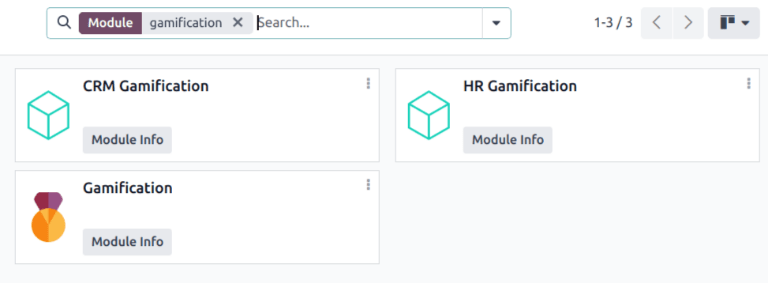
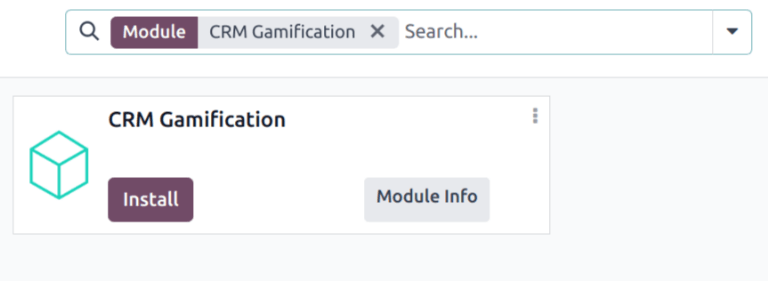
[IMP] CRM: rewrite gamification config section
X-original-commit: fd17dcef909d5c4ee27f419f02dad8ef3695af08

diff --git a/content/applications/sales/crm/optimize/gamification.rst b/content/applications/sales/crm/optimize/gamification.rst
@@ -9,13 +9,9 @@ through customizable challenges, goals, and rewards. Goals are created to target
 Configuration
 =============
 
-To install the *Gamification* module, navigate to the :menuselection:`Apps` application. Click into
-the :guilabel:`Search...` bar at the top of the page and remove the :guilabel:`Apps` filter. Type
-`Gamification` to search.
-
-If the :guilabel:`Gamification` module is **not** already installed, click :guilabel:`Install`.
-After completing the installation, return to the :menuselection:`Apps` application and search for
-`Gamification` again.
+To install the *CRM Gamification* module, navigate to the :menuselection:`Apps` application. Click
+into the :guilabel:`Search...` bar at the top of the page and remove the :guilabel:`Apps` filter.
+Type `CRM Gamification` to search.
 
 On the :guilabel:`CRM Gamification` module, click :guilabel:`Install`. This module features goals
 and challenges related to the *CRM* and *Sales* applications.
@@ -25,8 +21,8 @@ and challenges related to the *CRM* and *Sales* applications.
    :alt: View of the gamification module being installed in Odoo.
 
 .. note::
-   If both the *CRM* and *Sales* apps are installed, the *CRM Gamification* module is automatically
-   installed on the database.
+   If **both** the *CRM* and *Sales* apps are installed, the *CRM Gamification* module is
+   automatically installed on the database.
 
 To access the *Gamification Tools* menu, first enable :ref:`developer-mode`.
 
@@ -34,7 +30,7 @@ Next, navigate to :menuselection:`Settings app --> Gamification Tools`.
 
 .. image:: gamification/gamification-tools-menu.png
    :align: center
-   :alt: View if the gamification tools menu in Odoo Settings
+   :alt: View if the gamification tools menu in Odoo Settings.
 
 .. _crm/create-rewards:
 
@@ -71,8 +67,8 @@ The :guilabel:`Allowance to Grant` field determines when a badge can be granted,
   appropriate users from this drop-down list.
 - :guilabel:`People having some badges`: this badge can only be granted by users who have already
   been awarded a specific badge. If this option is selected it generates a new field,
-  :guilabel:`Required Badges`. Use this drop-down list to select the badge(s) a user must have before they
-  can award this badge to others.
+  :guilabel:`Required Badges`. Use this drop-down list to select the badge(s) a user must have
+  before they can award this badge to others.
 - :guilabel:`No one, assigned through challenges`: this badge cannot be manually granted, it can
   only be awarded through challenges.
 
@@ -107,6 +103,7 @@ necessary, click into the third field to further define the parameter.
 .. tip::
    To include all users with permissions in the *Sales* app, create a rule with the following
    parameters:
+
    - :guilabel:`Groups`
    - :guilabel:`is in`
    - `Sales/User: Own Documents Only`
